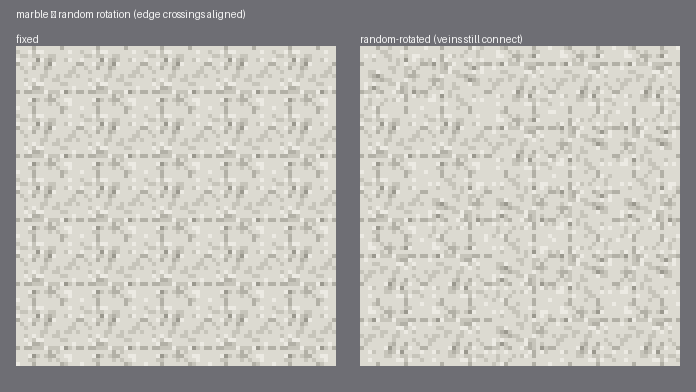
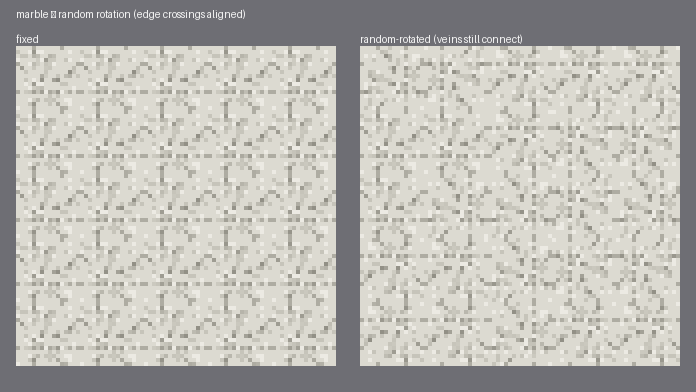
gallery: random per-pixel marble vein darkness (lerp soft->core, dark_bias) — no marker-stroke look

diff --git a/gallery/2026-07-21-stone-practice/src/stonegen.py b/gallery/2026-07-21-stone-practice/src/stonegen.py
@@ -30,6 +30,11 @@ def hexc(s):
     return (int(s[0:2], 16), int(s[2:4], 16), int(s[4:6], 16), 255)
 
 
+def lerp(c1, c2, t):
+    return (int(c1[0] + (c2[0] - c1[0]) * t), int(c1[1] + (c2[1] - c1[1]) * t),
+            int(c1[2] + (c2[2] - c1[2]) * t), 255)
+
+
 # ---------------------------------------------------------------- structure primitives (value-driven)
 def fill_base(px, spec):
     ramp = [hexc(c) for c in spec["ramp"]]
@@ -104,10 +109,11 @@ def apply_anchor_veins(px, spec):
     if not av:
         return
     crossings = av["crossings"]
-    color, core = hexc(av["color"]), hexc(av["core"])
-    soft = hexc(av.get("soft", av["color"]))            # light blend tone (close to base)
+    core = hexc(av["core"])                             # darkest end of the vein
+    soft = hexc(av.get("soft", av.get("color", av["core"])))  # lightest end (close to base)
     amp = av.get("amp", 2.0)
     dot = av.get("dot", 1.0)                            # fraction of interior steps drawn (rest = gaps)
+    bias = av.get("dark_bias", 1.7)                     # >1 keeps most pixels light, few dark
     seed = spec.get("seed", 1) + 30
     for pi, (a, b) in enumerate(av["pairs"]):
         ax, ay = _anchor(a, crossings)
@@ -123,14 +129,15 @@ def apply_anchor_veins(px, spec):
             yi = int(round(ay + dy * f + pyu * wob)) % N
             if 0 < f < 1 and h2(xi, yi, seed + 3) > dot:
                 continue                                # dotted gap — let the stone show through
-            r = h2(xi, yi, seed + 4)                    # mostly soft blend, sparse darker accents
-            px[xi, yi] = core if r < 0.14 else (color if r < 0.42 else soft)
+            d = h2(xi, yi, seed + 4) ** bias            # RANDOM darkness per pixel (no uniform stroke)
+            px[xi, yi] = lerp(soft, core, d)
             if 0 < f < 1 and h2(xi, yi, seed + 1) < 0.18:
-                px[(xi + 1) % N, yi] = soft             # occasional soft 2px feather
-    for a, b in av["pairs"]:                             # pin exact edge crossings (mid tone, connects softly)
+                d2 = (h2(xi, yi, seed + 5) ** bias) * 0.5
+                px[(xi + 1) % N, yi] = lerp(soft, core, d2)  # lighter feather
+    for a, b in av["pairs"]:                             # pin edge crossings (mid tone → reads as a link)
         for nm in (a, b):
             cx, cy = _anchor(nm, crossings)
-            px[cx, cy] = color
+            px[cx, cy] = lerp(soft, core, 0.5)
 
 
 def apply_points(px, spec, key):

diff --git a/gallery/2026-07-21-stone-practice/NOTES.md b/gallery/2026-07-21-stone-practice/NOTES.md
@@ -60,3 +60,9 @@ are gaps). Marble veins are now mostly a light blend tone close to the base, wit
 accents, broken into dots (dot=0.6) so they read as subtle veining that melts into the stone rather
 than a drawn line. Crossings still pinned (mid tone) so rotation alignment holds — dotted veins still
 connect at seams. All value-driven in stones.json (soft/color/core/dot).
+
+## r6 — random per-pixel vein darkness
+Each vein pixel is now a continuous lerp(soft, core, d) where d = hash**dark_bias — random darkness
+per pixel (mostly faint, few dark), instead of a few fixed tones. Kills the uniform-marker read; the
+vein fades in and out along its length like real marble. Value-driven: soft/core = light/dark ends,
+dark_bias (>1 keeps it mostly light), dot = gaps. Crossings pinned to the mid tone so rotation aligns.
